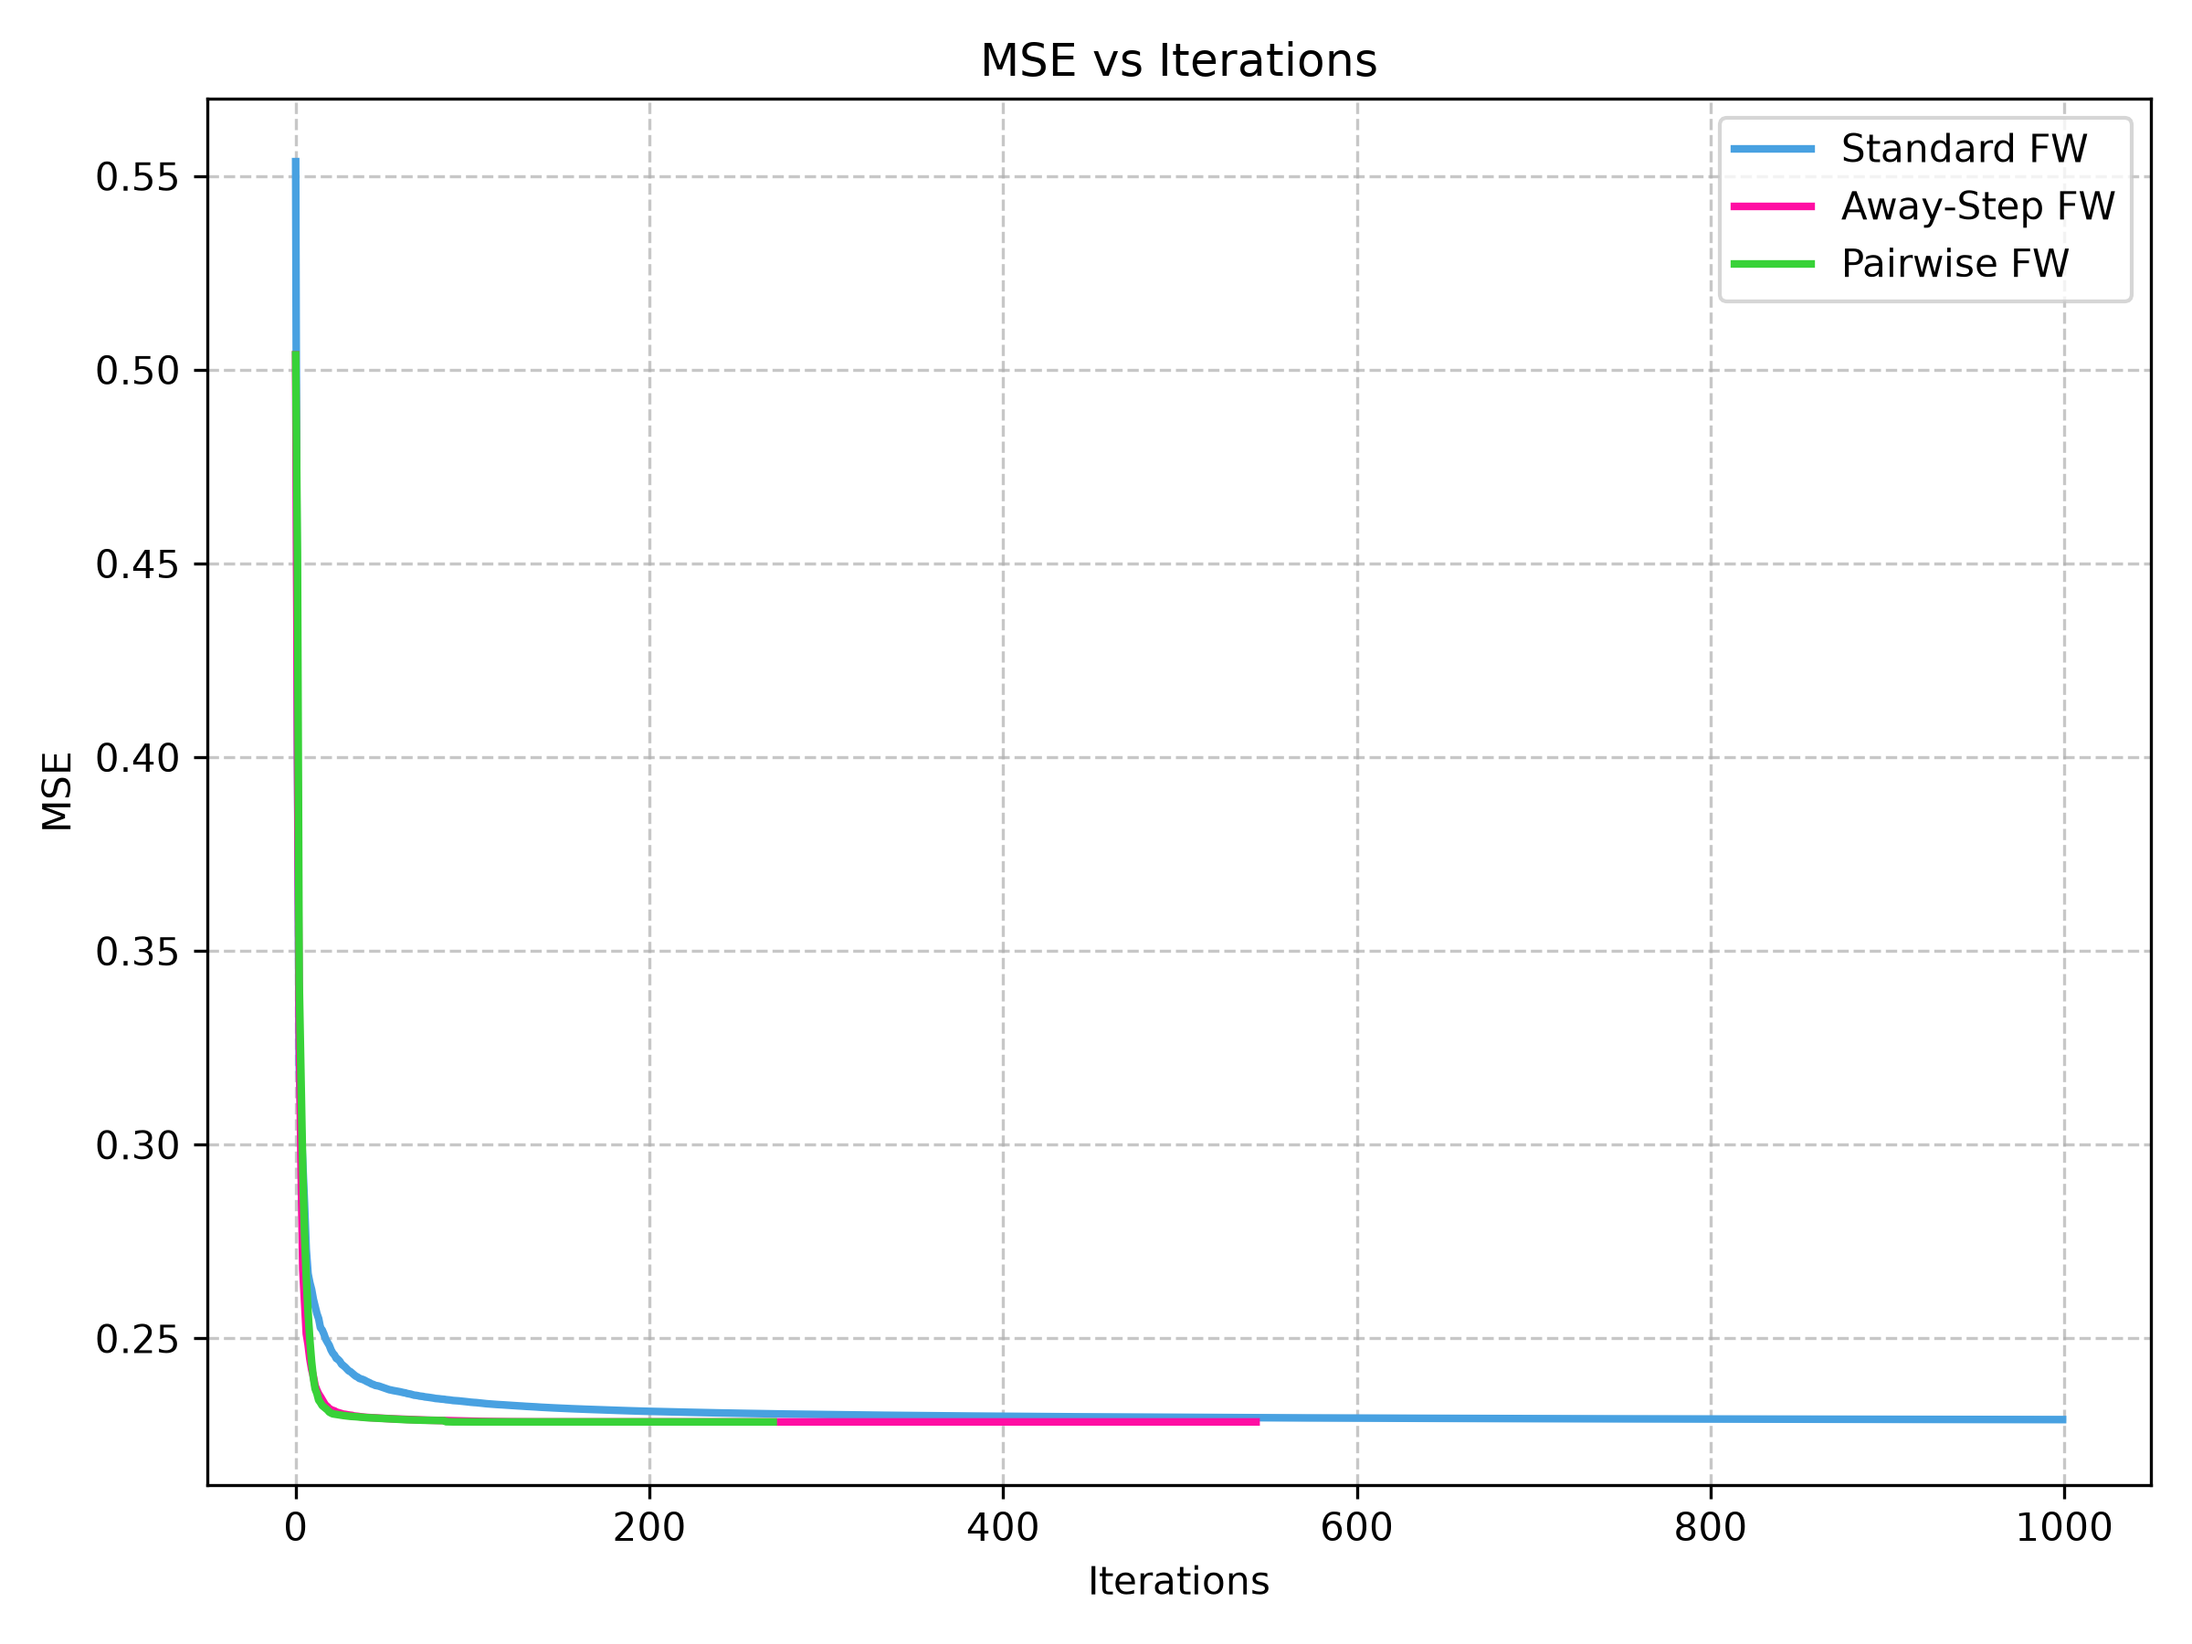
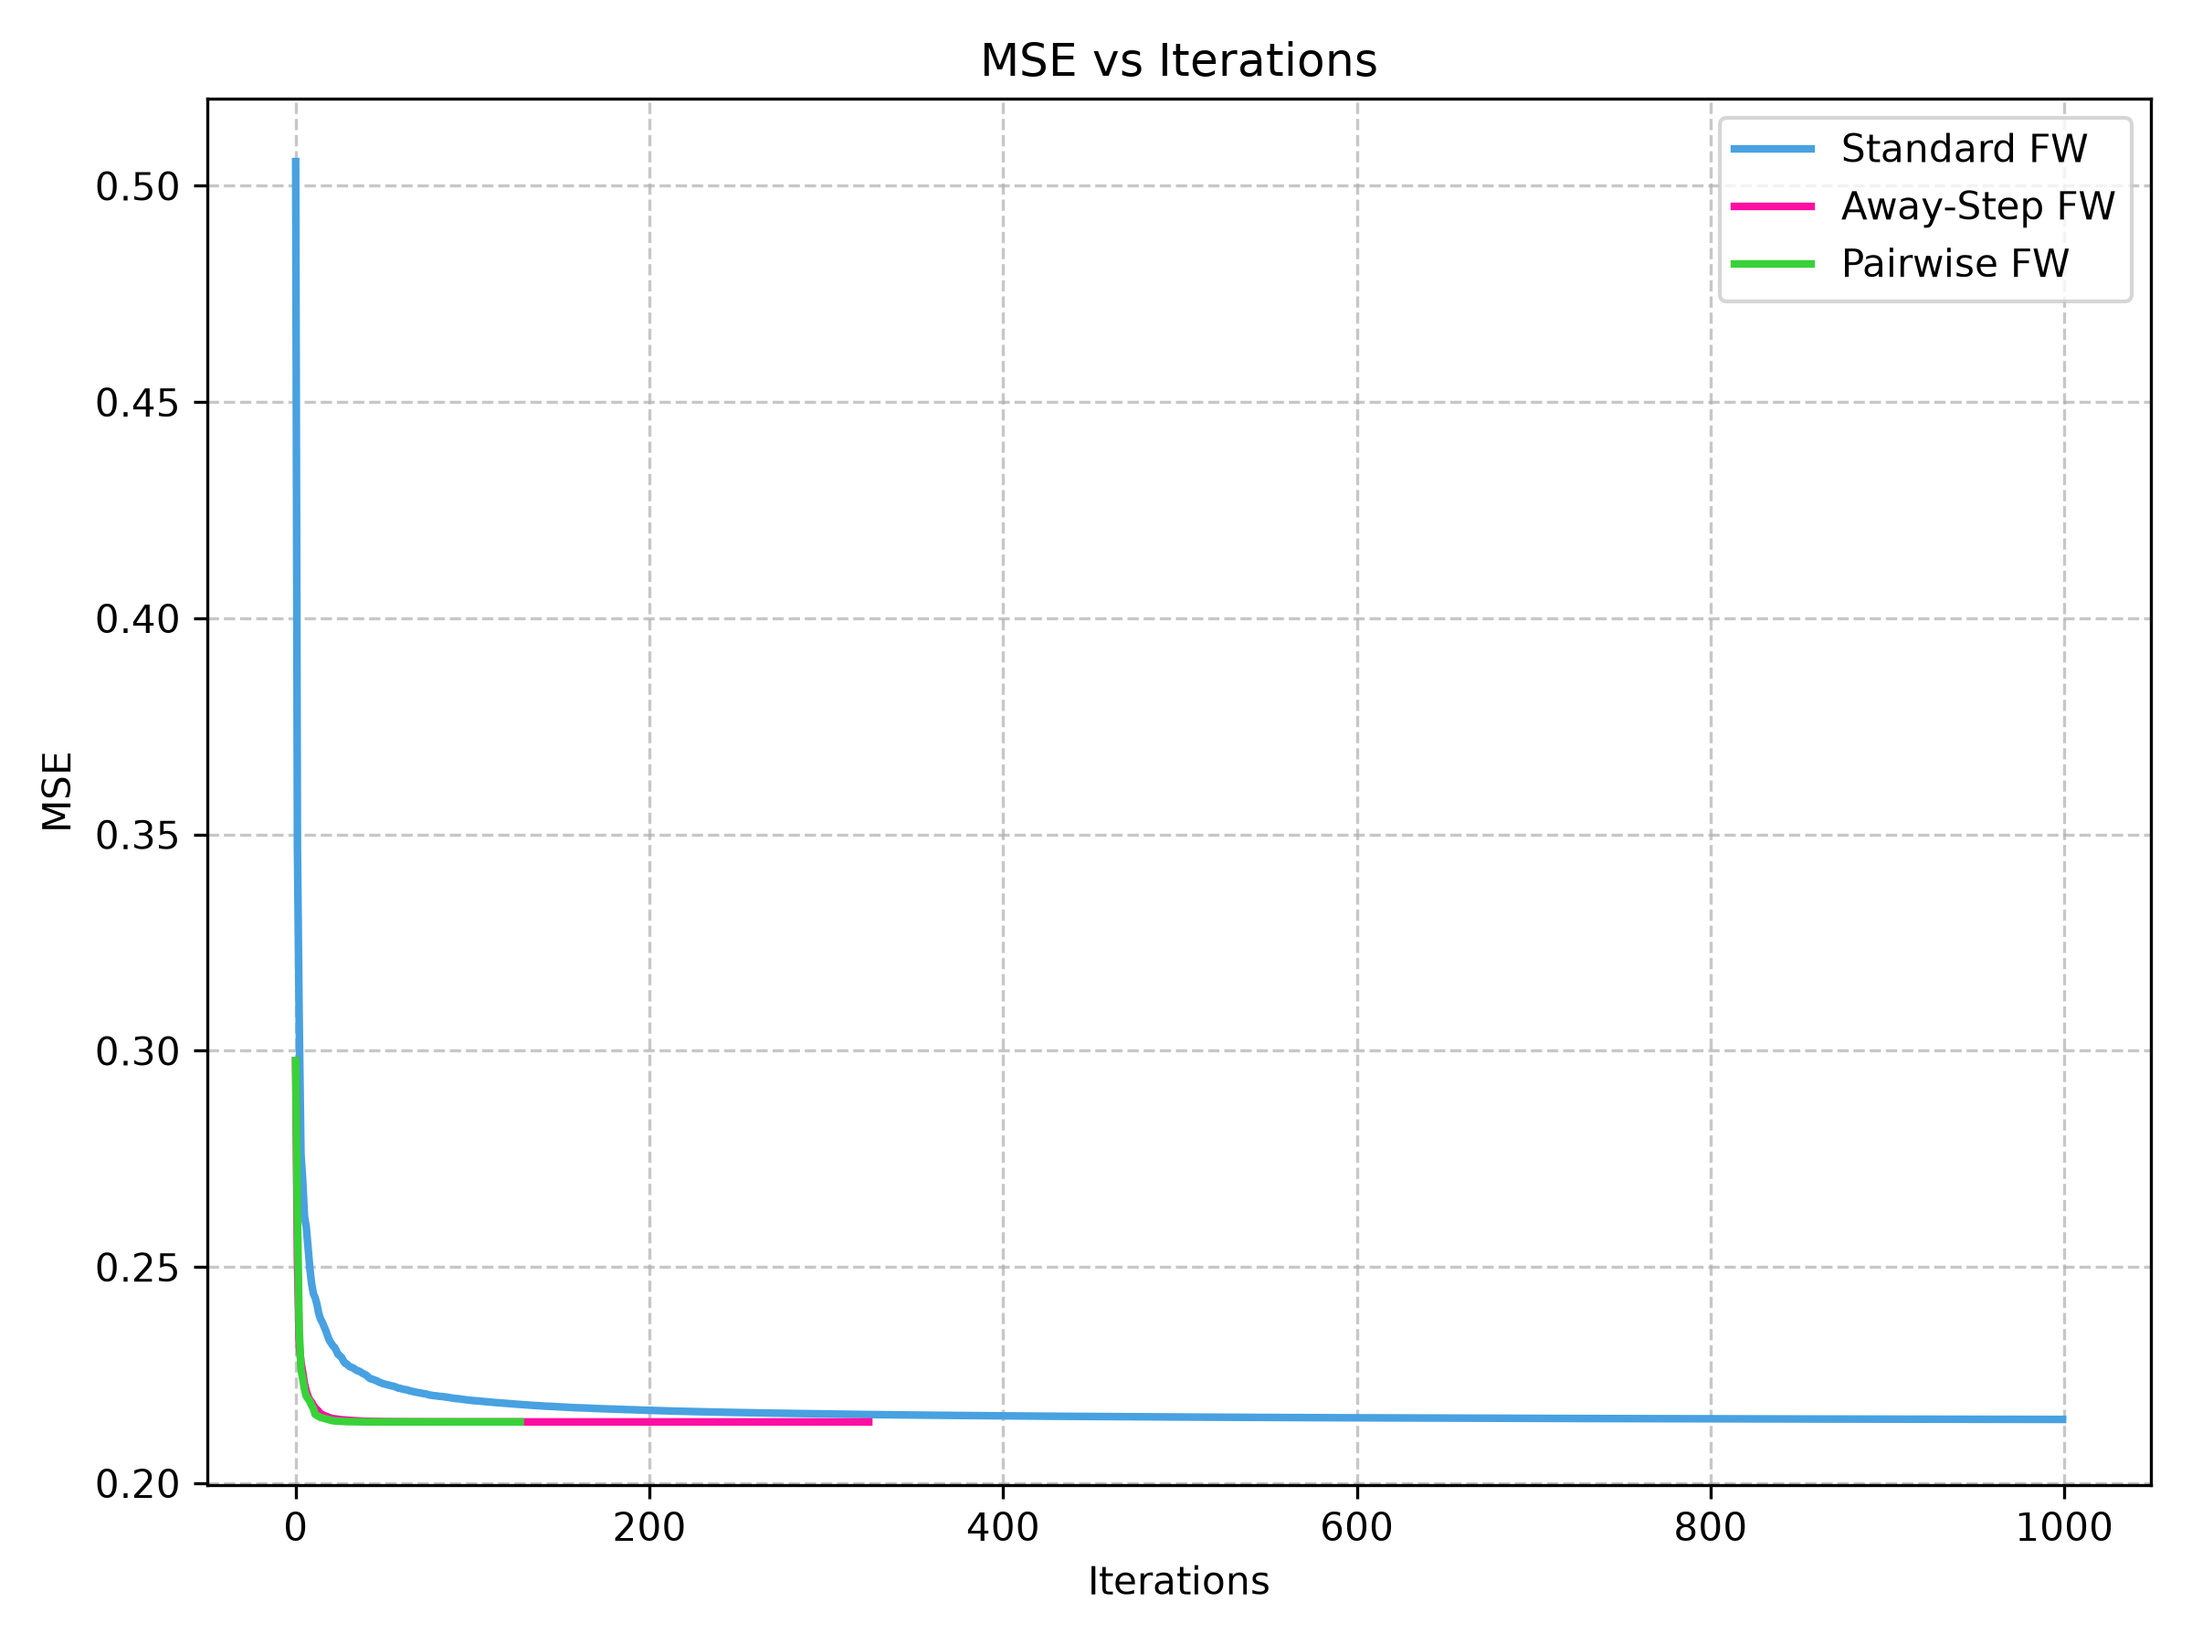
migliroato lettura dati

diff --git a/algorithm.py b/algorithm.py
@@ -74,6 +74,8 @@ class FrankWolfeLasso:
         self.iter = max_iter
         self.tol = tolerance
         self.w_tolerance = w_tolerance
+        self.convergence = False
+
 
         self.history_loss = []
         self.history_gap = []
@@ -99,6 +101,13 @@ class FrankWolfeLasso:
 
     def predict(self, X):
         return np.asarray(X, dtype=float) @ self.x_t
+
+    def predict_original_scale(self, X, y_scaler):
+        y_pred_scaled = self.predict(X)
+
+        return y_scaler.inverse_transform(
+            y_pred_scaled.reshape(-1, 1)
+        ).ravel()
 
     def mse_score(self, X, y):
         y_pred = self.predict(X)
@@ -127,8 +136,8 @@ class FrankWolfeLasso:
             
             # 5. stopping criterion: if the gap is smaller than the tolerance, we stop
             if gap <= self.tol:
-                print(f"Convergence obtained at iteration {t} with gap: {gap:.6f}")
-                break
+                print(f"self.convergence obtained at iteration {t} with gap: {gap:.6f}")
+                self.convergence = True
             
             # 6. line search, choose gamma (learning rate)
             Xd = X @ d_t
@@ -141,6 +150,9 @@ class FrankWolfeLasso:
             mse = self.mse_score(X, y)
 
             self.update_history(X, y, gap, t0, mse)
+
+            if self.convergence:
+                break
             
         return self.x_t
 
@@ -151,6 +163,7 @@ class AwayStepsFrankWolfeLasso:
         self.iter = max_iter
         self.tol = tolerance
         self.w_tolerance = w_tolerance
+        self.convergence = False
 
         self.history_loss = []
         self.history_gap = []
@@ -177,9 +190,39 @@ class AwayStepsFrankWolfeLasso:
     def predict(self, X):
         return np.asarray(X, dtype=float) @ self.x_t
 
+    def predict_original_scale(self, X, y_scaler):
+        y_pred_scaled = self.predict(X)
+
+        return y_scaler.inverse_transform(
+            y_pred_scaled.reshape(-1, 1)
+        ).ravel()
+
     def mse_score(self, X, y):
         y_pred = self.predict(X)
         return np.mean((np.asarray(y) - y_pred) ** 2)
+
+    def exact_line_search(self, X, y, grad, direction, alpha_max):
+        if np.max(np.abs(direction)) < 1e-14:
+            alpha = 0.0
+        else:
+            Xd = X @ direction
+            den = np.sum(Xd ** 2)
+            if den < 1e-10:
+                alpha = 0.0
+            else:
+                opt_alpha = -np.dot(grad, direction) / den
+                alpha = np.clip(opt_alpha, 0.0, alpha_max)
+        return alpha
+
+    def line_search(self, X, y, grad, direction, alpha_max):
+        Xd = X @ direction
+        den = np.sum(Xd ** 2)
+        if den < 1e-10:
+            alpha = 0.0
+        else:
+            opt_alpha = -np.dot(grad, direction) / den
+            alpha = np.clip(opt_alpha, 0.0, alpha_max)
+        return alpha
     
     def fit(self, X, y):
         n_samples, n_features = X.shape
@@ -224,8 +267,8 @@ class AwayStepsFrankWolfeLasso:
             fw_gap = -np.dot(grad, s_vec - self.x_t)
 
             if fw_gap <= self.tol:
-                print(f"Convergence obtained at iteration {i} with gap: {fw_gap:.6f}")
-                break
+                print(f"self.convergence obtained at iteration {i} with gap: {fw_gap:.6f}")
+                self.convergence = True
 
             # direction and overflow protection
             away_gap = -np.dot(grad, self.x_t - v_vec)
@@ -244,16 +287,7 @@ class AwayStepsFrankWolfeLasso:
                 is_fw_step = False
 
             # EXACT LINE SEARCH
-            if np.max(np.abs(direction)) < 1e-14:
-                alpha = 0.0
-            else:
-                Xd = X @ direction
-                den = np.sum(Xd ** 2)
-                if den < 1e-10:
-                    alpha = 0.0
-                else:
-                    opt_alpha = -np.dot(grad, direction) / den
-                    alpha = np.clip(opt_alpha, 0.0, alpha_max)
+            alpha = self.line_search(X, y, grad, direction, alpha_max)
 
             # UPDATE x
             self.x_t = self.x_t + alpha * direction
@@ -295,6 +329,9 @@ class AwayStepsFrankWolfeLasso:
 
             self.update_history(X, y, fw_gap, t0, mse)   
 
+            if self.convergence:
+                break
+
         return self.x_t
 
 class PairwiseFrankWolfeLasso:
@@ -303,6 +340,8 @@ class PairwiseFrankWolfeLasso:
         self.iter = max_iter
         self.tol = tolerance
         self.w_tolerance = w_tolerance
+        self.convergence = False
+
 
         self.history_loss = []
         self.history_gap = []
@@ -329,9 +368,26 @@ class PairwiseFrankWolfeLasso:
     def predict(self, X):
         return np.asarray(X, dtype=float) @ self.x_t
 
+    def predict_original_scale(self, X, y_scaler):
+        y_pred_scaled = self.predict(X)
+
+        return y_scaler.inverse_transform(
+            y_pred_scaled.reshape(-1, 1)
+        ).ravel()
+
     def mse_score(self, X, y):
         y_pred = self.predict(X)
         return np.mean((np.asarray(y) - y_pred) ** 2)
+
+    def line_search(self, X, y, grad, direction, alpha_max):
+        Xd = X @ direction
+        den = np.sum(Xd ** 2)
+        if den < 1e-10:
+            alpha = 0.0
+        else:
+            opt_alpha = -np.dot(grad, direction) / den
+            alpha = np.clip(opt_alpha, 0.0, alpha_max)
+        return alpha
         
     def fit(self, X, y):
         n_samples, n_features = X.shape
@@ -375,8 +431,8 @@ class PairwiseFrankWolfeLasso:
             fw_gap = -np.dot(grad, s_vec - self.x_t)
 
             if fw_gap <= self.tol:
-                print(f"PFW Convergence obtained at iteration {i} with gap: {fw_gap:.6f}")
-                break
+                print(f"PFW self.convergence obtained at iteration {i} with gap: {fw_gap:.6f}")
+                self.convergence = True
 
             # 5. PAIRWISE DIRECTION
             # direct transfer of mass from the worst vertex (v_vec) to the best vertex (s_vec)
@@ -386,13 +442,7 @@ class PairwiseFrankWolfeLasso:
             alpha_max = self.weights[v_key]
 
             # 6. EXACT LINE SEARCH
-            Xd = X @ direction
-            den = np.sum(Xd ** 2)
-            if den < 1e-10:
-                alpha = 0.0
-            else:
-                opt_alpha = -np.dot(grad, direction) / den
-                alpha = np.clip(opt_alpha, 0.0, alpha_max)
+            alpha = self.line_search(X, y, grad, direction, alpha_max)
 
             # 7. UPDATE x
             self.x_t = self.x_t + alpha * direction
@@ -418,7 +468,10 @@ class PairwiseFrankWolfeLasso:
 
             mse = self.mse_score(X, y) 
 
-            self.update_history(X, y, fw_gap, t0, mse)            
+            self.update_history(X, y, fw_gap, t0, mse)  
+
+            if self.convergence:
+                break          
 
         return self.x_t
 

diff --git a/main.py b/main.py
@@ -3,28 +3,34 @@ import pandas as pd
 import numpy as np
 from sklearn.preprocessing import StandardScaler
 import matplotlib.pyplot as plt
-from utils import plot
+from utils import plot, read_data
 from sklearn.model_selection import train_test_split
+import json
 
 # Global variables
 # TAU = 1.0
 TAU = 1
 ITER = 1000
 TOLERANCE = 1e-4
+PLOT = True
 
-print("1. Loading Riboflavin dataset...")
+print("1. Loading dataset...")
 
-file_name = 'data/riboflavin.csv' 
+# file_name = 'data/riboflavin.csv' 
+file_name = 'data/wikivital_mathematics.json'
 
-df = pd.read_csv(file_name)
-target_col = 'y' 
+# X, Y = read_data.csv(file_name)
+X, Y = read_data.json(file_name)
 
-Y = df[target_col].values
-X = df.drop(columns=[target_col]).values
-
+# 0.12 ee (12/76)
 X_temp, X_test, y_temp, y_test = train_test_split(X, Y, test_size=0.12, random_state=42)
-X_train, X_val, y_train, y_val = train_test_split(X_temp, y_temp, test_size=(12/76), random_state=42)
+X_train, X_val, y_train, y_val = train_test_split(X_temp, y_temp, test_size=(0.12/0.76), random_state=42) # 0.25 x 0.8 = 0.2
 
+# X_train, X_val, y_train, y_val = train_test_split(X, Y, test_size=0.1, random_state=42) # 0.25 x 0.8 = 0.2
+
+print("\nTraining size: ", len(X_train))
+print("Validation size: ", len(X_val))
+# print("Test size: ", len(X_test))
 
 print(f"Dataset dimensions: {X.shape[0]} observations, {X.shape[1]} features (genes)")
 
@@ -120,7 +126,7 @@ plot.mse(mse_fw, mse_afw, mse_pfw, False, color_fw, color_afw, color_pfw, name_6
 plot.mse(mse_fw, mse_afw, mse_pfw, True, color_fw, color_afw, color_pfw, f'{name_6}_log.png')
 # plot.weight_distr(fw_weights, afw, pfw, color_fw, color_afw, color_pfw, name_5)
 
-# Display plot
-plt.show()
+if PLOT:
+    plt.show()
 
 print("Script completed successfully! Graphs have been saved in the project folder.")

diff --git a/utils.py b/utils.py
@@ -1,4 +1,7 @@
 import matplotlib.pyplot as plt
+import json
+import numpy as np
+import pandas as pd
 
 class plot:
     def __init__(self, fw, afw, pfw, name, folder = 'image'):
@@ -130,3 +133,37 @@ class plot:
         plt.grid(True, linestyle='--', alpha=0.7)
         plt.tight_layout()
         plt.savefig(name, dpi=300) 
+
+class read_data:
+    def __init__(self):
+        pass
+
+    def json(file):
+        try:
+            with open(file, 'r') as file:
+                dataset_json = json.load(file)
+            # Extract the data ignoring the "edges" key (the graph structure)
+            daily_visits = []
+            # Take the days in chronological order (numeric keys)
+            days = sorted([k for k in dataset_json.keys() if k.isdigit()], key=int)
+            
+            for day in days:
+                daily_visits.append(dataset_json[day]['y'])
+                
+            # Create the matrix: 731 days (rows) x 1068 pages (columns)
+            data_matrix = np.array(daily_visits)
+            
+            # SETUP FOR LASSO: decide to take the first page's visits (target) 
+            # using the visits of all other 1067 pages (features)
+            Y = data_matrix[:, 0]  
+            X = data_matrix[:, 1:]
+            return X, Y
+        except FileNotFoundError:
+            print(f"\nERROR: file not found '{file}'.")
+
+    def csv(file):
+        df = pd.read_csv(file)
+        target_col = 'y'
+        Y = df[target_col].values
+        X = df.drop(columns=[target_col]).values
+        return X, Y
